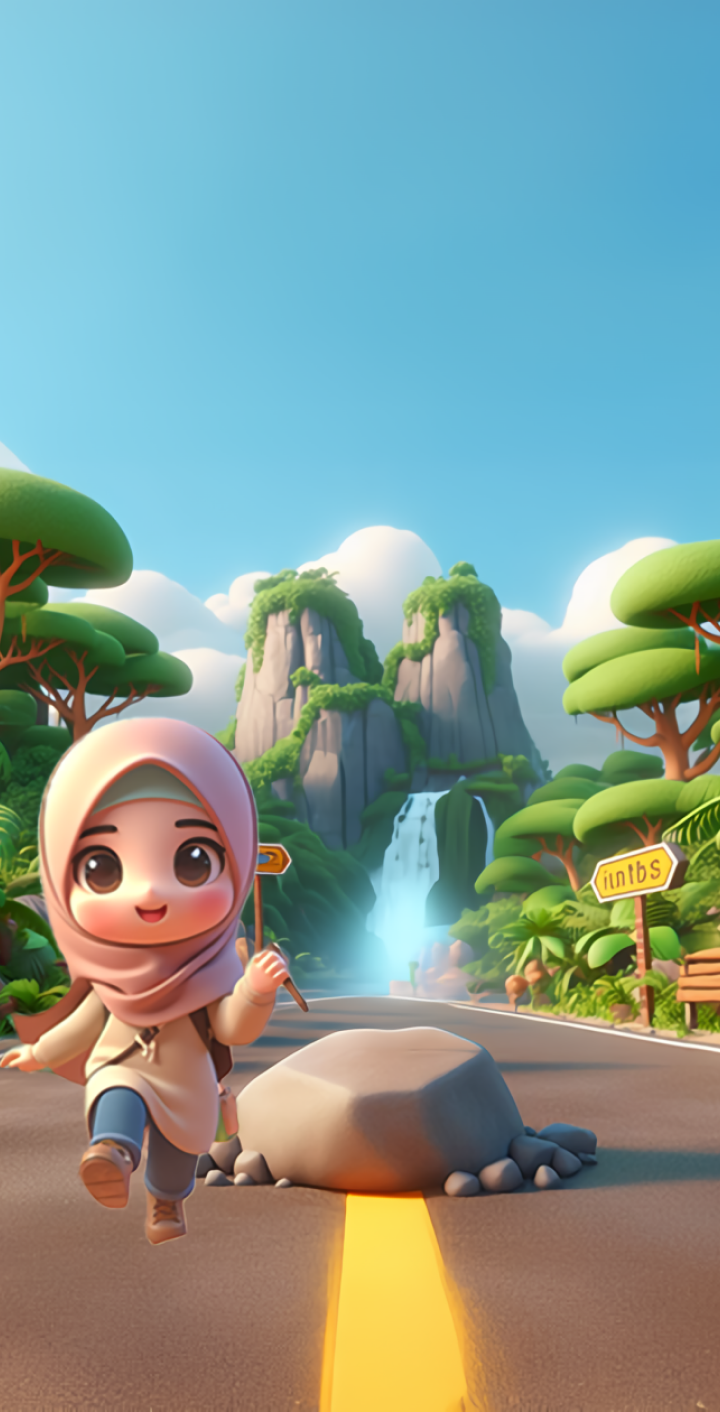
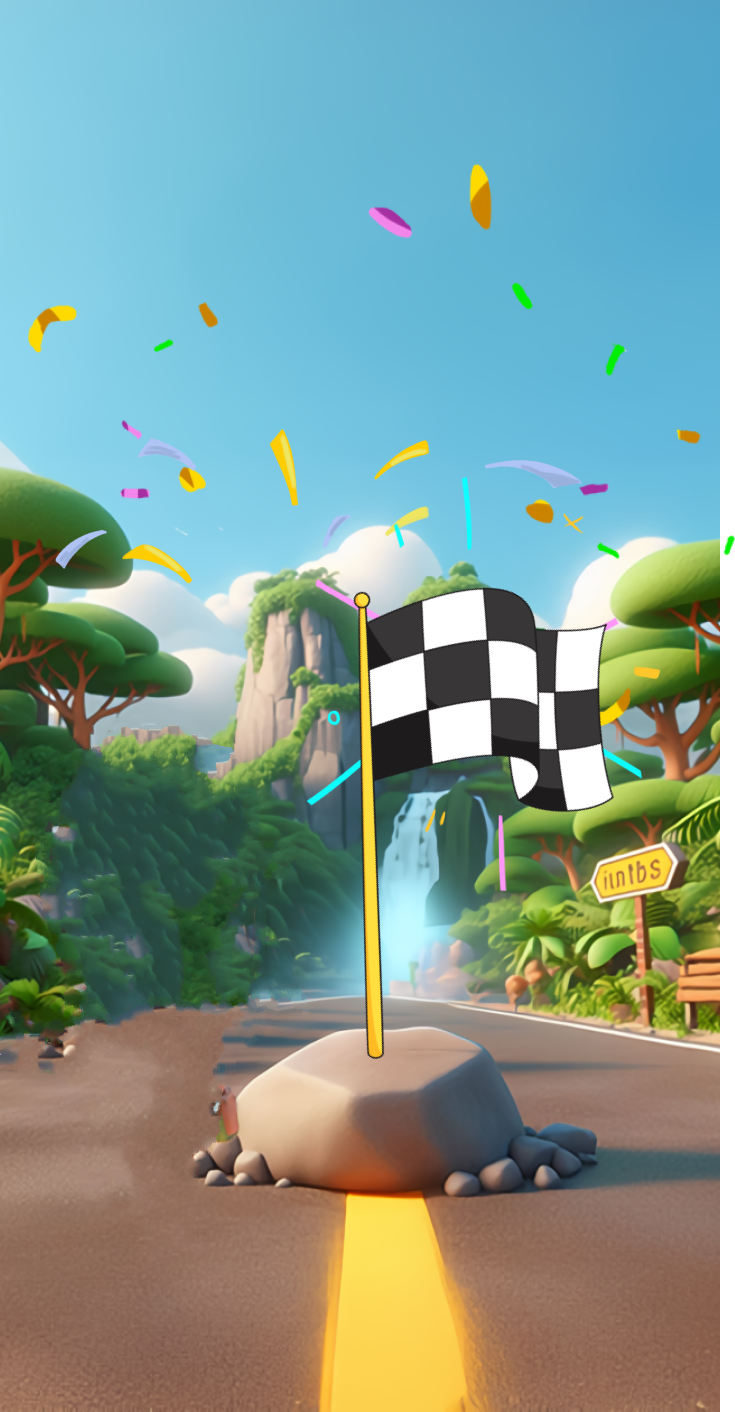
add finish screen

diff --git a/core/src/main/kotlin/com/github/doandadr/petualanganhijaiyah/screen/FinishScreen.kt b/core/src/main/kotlin/com/github/doandadr/petualanganhijaiyah/screen/FinishScreen.kt
@@ -1,20 +1,37 @@
 package com.github.doandadr.petualanganhijaiyah.screen
 
+import com.badlogic.gdx.scenes.scene2d.ui.Image
+import com.badlogic.gdx.scenes.scene2d.ui.Label
+import com.badlogic.gdx.utils.Align
 import com.badlogic.gdx.utils.Scaling
 import com.github.doandadr.petualanganhijaiyah.Main
+import com.github.doandadr.petualanganhijaiyah.asset.Drawables
+import com.github.doandadr.petualanganhijaiyah.asset.ImageButtons
+import com.github.doandadr.petualanganhijaiyah.asset.Labels
+import com.github.doandadr.petualanganhijaiyah.asset.TextureAsset
 import com.github.doandadr.petualanganhijaiyah.data.PlayerModel
 import com.github.doandadr.petualanganhijaiyah.data.PrefKey
+import com.github.doandadr.petualanganhijaiyah.ui.animation.Animations
+import com.github.doandadr.petualanganhijaiyah.ui.values.PADDING_INNER_SCREEN
+import com.github.doandadr.petualanganhijaiyah.ui.values.SCALE_BTN_MEDIUM
+import com.github.doandadr.petualanganhijaiyah.ui.values.SCALE_FONT_SMALL
+import com.github.doandadr.petualanganhijaiyah.ui.values.SCALE_FONT_SPLASH
+import ktx.actors.onChange
+import ktx.actors.onTouchDown
+import ktx.actors.plusAssign
 import ktx.log.logger
 import ktx.preferences.get
-import ktx.scene2d.actors
-import ktx.scene2d.image
-import ktx.scene2d.table
+import ktx.scene2d.*
 
 class FinishScreen(game: Main): BaseScreen(game) {
-    // properties
+    private lateinit var portrait: Image
+    private lateinit var bubbleText: Label
+    private lateinit var congratsText: Label
+    private lateinit var homeButton: KImageButton
+    private lateinit var totalScore: Label
+    private lateinit var totalStar: Label
     private lateinit var  player: PlayerModel
 
-    // show
     override fun show() {
         super.show()
 
@@ -27,21 +44,79 @@ class FinishScreen(game: Main): BaseScreen(game) {
     }
 
     private fun setupUI() {
-//        val bgFinish = assets[TextureAsset.FINISH.descriptor]
+        val bgFinish = assets[TextureAsset.FINISH.descriptor]
 
+        stage.isDebugAll = true
         stage.actors {
-            image(/*bgFinish*/) {
+            image(bgFinish) {
                 setFillParent(true)
                 setScaling(Scaling.fill)
             }
+
             table {
-                // TODO set finish screen layout
+                setFillParent(true)
+
+                table {
+                    it.padLeft(PADDING_INNER_SCREEN).padTop(PADDING_INNER_SCREEN).expandX().align(Align.topLeft)
+                    image(Drawables.ICON_STAR_SMALL.drawable) {
+                        it.padRight(-40f)
+                    }
+                    totalStar = label(player.totalStar.toString(), Labels.TEXTBOX_ORANGE_ROUNDED.style) {
+                        toBack()
+                        setAlignment(Align.center)
+                    }
+                }
+                table {
+                    it.padRight(PADDING_INNER_SCREEN).padTop(PADDING_INNER_SCREEN).expandX().align(Align.topRight)
+                    image(Drawables.ICON_DIAMOND.drawable) {
+                        it.padRight(-40f)
+                    }
+                    totalScore = label(player.totalScore.toInt().toString(), Labels.TEXTBOX_BLUE_ROUNDED.style) {
+                        toBack()
+                        setAlignment(Align.center)
+                    }
+                }
+
+                row()
+                congratsText = label("SELAMAT\n" +
+                    "${player.name.uppercase()}!", Labels.PRIMARY_GREEN_WHITE_BORDER.style) {
+                    it.padLeft(PADDING_INNER_SCREEN).padTop(50f).expandX().align(Align.bottomLeft).colspan(2)
+                    setFontScale(SCALE_FONT_SPLASH)
+                }
+
+                row()
+                bubbleText = label("Alhamdulillah, ${player.name}!\n" +
+                    "kamu sudah berhasil\n" +
+                    "menamatkan\n" +
+                    "petualangan hijaiyah!", Labels.BUBBLE.style) {
+                    it.expandX().padRight(PADDING_INNER_SCREEN).align(Align.topRight).padTop(-50f).colspan(2)
+                    setFontScale(SCALE_FONT_SMALL)
+                    setAlignment(Align.center)
+                    toBack()
+                }
+
+                row()
+                portrait = image(if (player.character == "girl") Drawables.GIRL.drawable else Drawables.BOY.drawable) {
+                    it.padLeft(PADDING_INNER_SCREEN).padBottom(PADDING_INNER_SCREEN).expand().align(Align.left)
+                    setOrigin(Align.left)
+                    setScale(SCALE_BTN_MEDIUM)
+                }
+
+                homeButton = imageButton(ImageButtons.HOME.style) {
+                    it.padRight(PADDING_INNER_SCREEN).padBottom(PADDING_INNER_SCREEN).expandX().align(Align.bottomRight)
+                    isTransform = true
+                    setOrigin(Align.center)
+                    onTouchDown {
+                        this.clearActions()
+                        this += Animations.pulseAnimation()
+                    }
+                    onChange {
+                        game.setScreen<HomeScreen>()
+                    }
+                }
             }
         }
     }
-
-    // ui [start bg, popup bubble, etc]
-    // render
 
     companion object {
         private val log = logger<FinishScreen>()

diff --git a/core/src/main/kotlin/com/github/doandadr/petualanganhijaiyah/asset/skin.kt b/core/src/main/kotlin/com/github/doandadr/petualanganhijaiyah/asset/skin.kt
@@ -44,7 +44,7 @@ enum class ImageButtons(val style: String) {
     HINT("hint"),
     QUESTION("question"),
     SCORE("score"),
-    SKIP("skip")
+    SKIP("skip"),
 }
 
 enum class ImageTextButtons(val style: String) {
@@ -79,6 +79,7 @@ enum class Labels(val style: String) {
     TUTORIAL_LEFT_UP("tutorial-left-up"),
     TUTORIAL_RIGHT_DOWN("tutorial-right-down"),
     TUTORIAL_RIGHT_UP("tutorial-right-up"),
+    BUBBLE("bubble"),
 }
 
 enum class TextButtons(val style: String) {

diff --git a/core/src/main/kotlin/com/github/doandadr/petualanganhijaiyah/screen/HomeScreen.kt b/core/src/main/kotlin/com/github/doandadr/petualanganhijaiyah/screen/HomeScreen.kt
@@ -261,6 +261,9 @@ class HomeScreen(game: Main) : BaseScreen(game) {
         } else if (Gdx.input.isKeyJustPressed(Input.Keys.NUM_4)) {
             // HIDE popup
             setPopup(PopupState.NONE)
+        } else if (Gdx.input.isKeyJustPressed(Input.Keys.NUM_5)) {
+            // Go to Finish Screen
+            game.setScreen<FinishScreen>()
         }
     }
 

diff --git a/core/src/main/kotlin/com/github/doandadr/petualanganhijaiyah/screen/SplashScreen.kt b/core/src/main/kotlin/com/github/doandadr/petualanganhijaiyah/screen/SplashScreen.kt
@@ -87,6 +87,8 @@ class SplashScreen(game: Main) : BaseScreen(game) {
         game.addScreen(MapScreen(game))
         game.addScreen(LevelScreen(game))
         game.addScreen(PracticeScreen(game))
+        game.addScreen(StartScreen(game))
+        game.addScreen(FinishScreen(game))
 
         game.setScreen<HomeScreen>()
         game.removeScreen<SplashScreen>()

diff --git a/core/src/main/kotlin/com/github/doandadr/petualanganhijaiyah/asset/TextureAsset.kt b/core/src/main/kotlin/com/github/doandadr/petualanganhijaiyah/asset/TextureAsset.kt
@@ -8,7 +8,7 @@ enum class TextureAsset(
     directory: String = "graphics/bg",
     val descriptor: AssetDescriptor<Texture> = AssetDescriptor("$directory/$fileName", Texture::class.java)
 ) {
-//    FINISH("bg-finish.png"),
+    FINISH("bg-finish.png"),
     HOME("bg-home.png"),
     DIM("bg-dim.png"),
     STAGE("bg-stage.png"),
